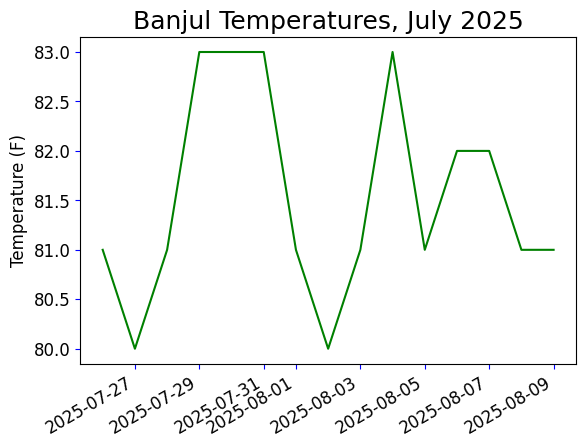
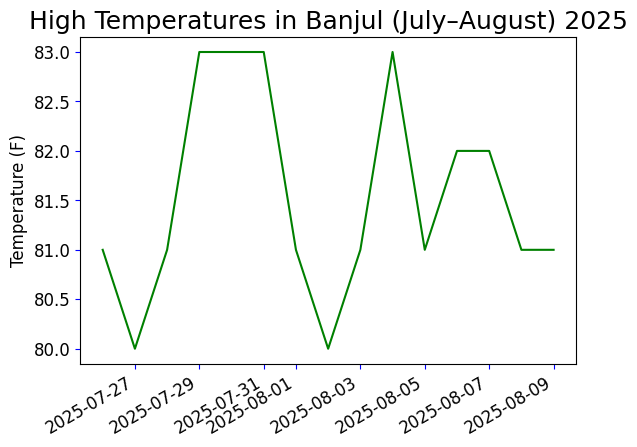
update title

diff --git a/banjul_vasual.py b/banjul_vasual.py
@@ -22,7 +22,7 @@ with open(filename) as f: # Open file as f
     fig, ax = plt.subplots()
     ax.plot(dates, temp_max, c='green') # set the plot
 
-    plt.title("Banjul Temperatures, July 2025", fontsize=18)
+    plt.title("High Temperatures in Banjul (July–August) 2025", fontsize=18)
     plt.xlabel('', fontsize=12)
     fig.autofmt_xdate()
     plt.ylabel('Temperature (F)', fontsize=12)
